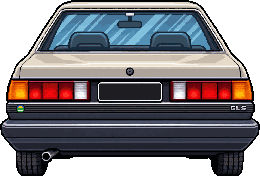
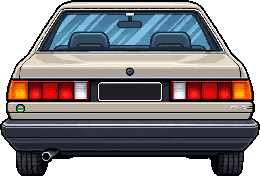
Savana GLS: painel abaixo das lanternas é carroceria (pintado na cor do carro)
Claude-Session: https://claude.ai/code/session_01MLD9VR7gkmY4w6a9beZcp6

Changed region(s): [[0.0308, 0.5682, 0.9846, 0.6818]]

diff --git a/tools/ref/santana_rear_panel.py b/tools/ref/santana_rear_panel.py
@@ -1,0 +1,55 @@
+"""Savana GLS, traseira: o painel abaixo das lanternas (faixa frisada com o emblema e o "GLS", e a
+faixa lisa logo abaixo, até o para-choque) é CARROCERIA, não para-choque: na arte veio em chumbo
+escuro e o santana_sprites.py tinha deixado com a cor do para-choque. Aqui ele passa para os tons da
+lataria (mantendo os frisos como variação de brilho) e entra na máscara de pintura. Emblema da Ipê,
+letras "GLS" e os contornos pretos ficam como estão.
+Rodar depois do santana_sprites.py (só mexe em pixels ainda acinzentados: rodar de novo não estraga).
+Uso: python3 tools/ref/santana_rear_panel.py"""
+import os
+import numpy as np
+from PIL import Image
+
+CARS = os.path.join(os.path.dirname(__file__), '..', '..', 'src/assets/cars')
+Y0, Y1 = 102, 118          # linhas do painel no sprite de 260 px (medidas)
+sp = os.path.join(CARS, 'br-santana-rear.png')
+mp = os.path.join(CARS, 'br-santana-rear-mask.png')
+a = np.array(Image.open(sp).convert('RGBA')).astype(float)
+m0 = Image.open(mp)
+m = np.array(m0.convert('L')) > 127
+H, W = m.shape
+rgb = a[..., :3]
+lum = rgb.max(2) / 255
+sat = (rgb.max(2) - rgb.min(2)) / np.maximum(rgb.max(2), 1)
+yy, xx = np.mgrid[0:H, 0:W]
+# tons da lataria: os pixels já pintáveis da traseira, do mais escuro ao mais claro
+body = rgb[m]
+order = np.argsort(body.max(1))
+ramp = body[order]
+# o painel: entre os contornos pretos de cada lado (a carroceria se fecha no preto da borda)
+inside = np.zeros((H, W), bool)
+for y in range(Y0, Y1 + 1):
+    xs = np.nonzero((a[y, :, 3] > 0) & (lum[y] > 0.12))[0]
+    if len(xs):
+        inside[y, xs.min() + 1:xs.max()] = True
+logo = (sat > 0.35) & (lum > 0.25)                    # emblema da Ipê
+letters = (lum > 0.55) & (xx >= 230) & (xx <= 246) & (yy >= 106) & (yy <= 109)  # "GLS" (caixa medida)
+grow = logo | letters
+for dy, dx in ((0, 1), (0, -1), (1, 0), (-1, 0)):
+    grow |= np.roll(np.roll(logo, dy, 0), dx, 1)
+band = inside & ~grow & ~m
+# cada LINHA ganha um tom só da lataria, pela mediana do brilho dela na arte: os frisos continuam
+# como linhas mais escuras e mais claras, sem o chuvisco de pixel a pixel
+rows = {y: np.median(lum[y][band[y]]) for y in range(Y0, Y1 + 1) if band[y].any()}
+v = np.array(list(rows.values()))
+lo, hi = v.min(), v.max()
+for y, l in rows.items():
+    t = (l - lo) / max(hi - lo, 1e-3)
+    tone = ramp[int((0.18 + 0.62 * t) * (len(ramp) - 1))]
+    rgb[y][band[y]] = tone
+# letras cromadas sobre a cor da carroceria: um pixel de sombra embaixo de cada traço para lerem
+sh = np.roll(letters, 1, 0) & ~letters & band
+rgb[sh] = ramp[int(0.08 * (len(ramp) - 1))]
+a[..., :3] = rgb
+Image.fromarray(a.astype(np.uint8), 'RGBA').save(sp, optimize=True)
+Image.fromarray(((m | band) * 255).astype(np.uint8), 'L').convert(m0.mode).save(mp, optimize=True)
+print('painel traseiro: pixels', int(band.sum()))
